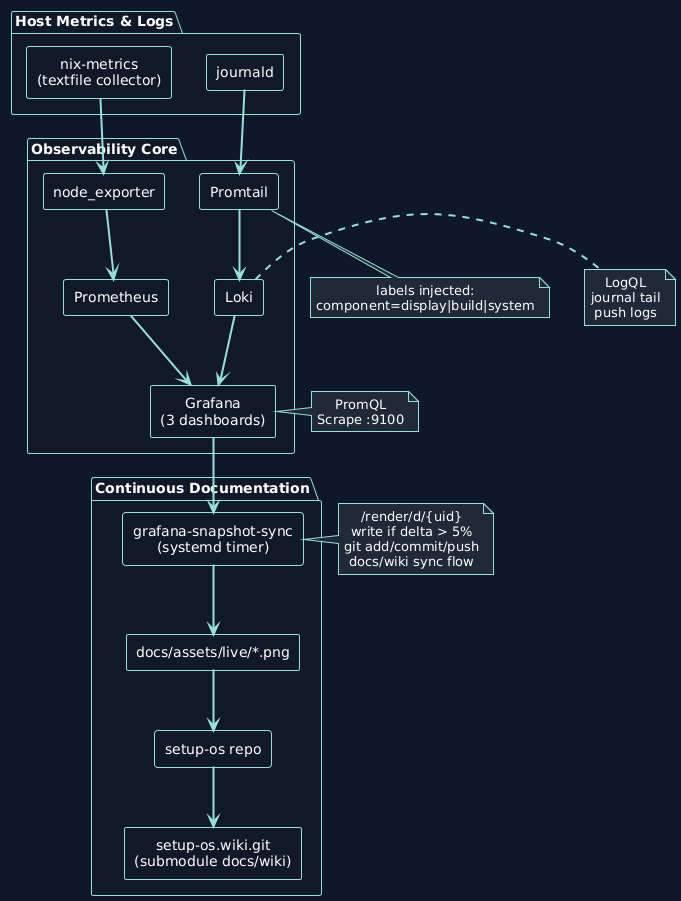
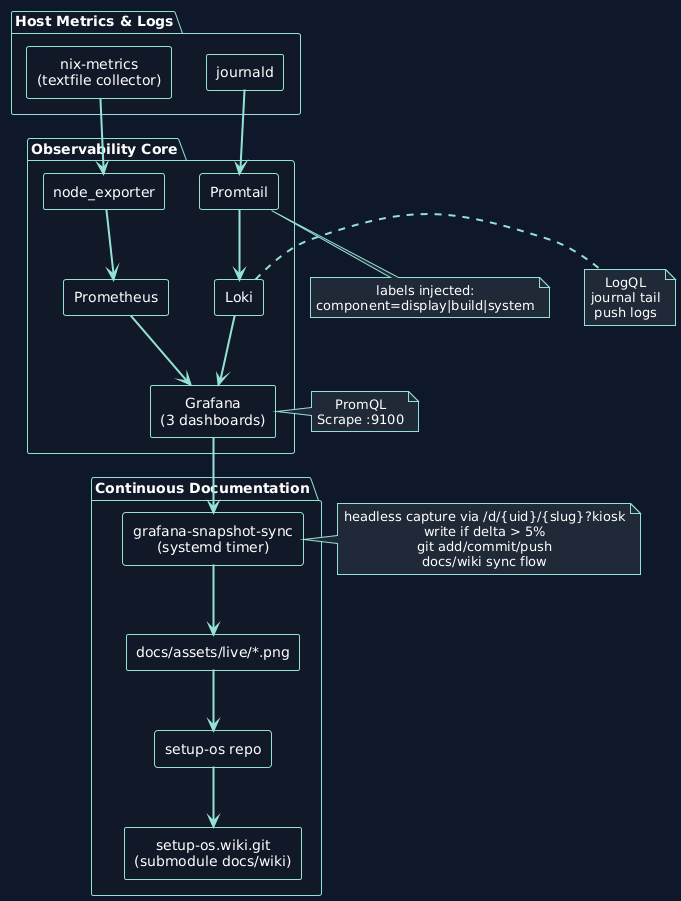
docs+obs: final consistency pass and loki single-node fix

Changed region(s): [[0.4934, 0.5594, 0.9559, 0.6526]]

diff --git a/README.md b/README.md
@@ -144,6 +144,15 @@ The [**GitHub Wiki**](https://github.com/RomeoCavazza/setup-os/wiki) is the prim
 The observability stack (Prometheus + Loki + Grafana + Promtail) publishes live
 dashboard snapshots generated locally by a systemd timer.
 
+### Main Live Dashboard
+![Live NixOS Metrics](./docs/assets/live/live-dashboard.png)
+
+### Loki Correlation Preview
+Instead of exposing raw logs directly in the README, this preview shows Loki in context through incident correlation.
+
+![Live Incident Correlation](./docs/assets/live/incident-dashboard.png)
+
+### Efficiency View
 ![Live Nix Efficiency](./docs/assets/live/nix-efficiency.png)
 
 Annexes and technical references live in `docs/`: